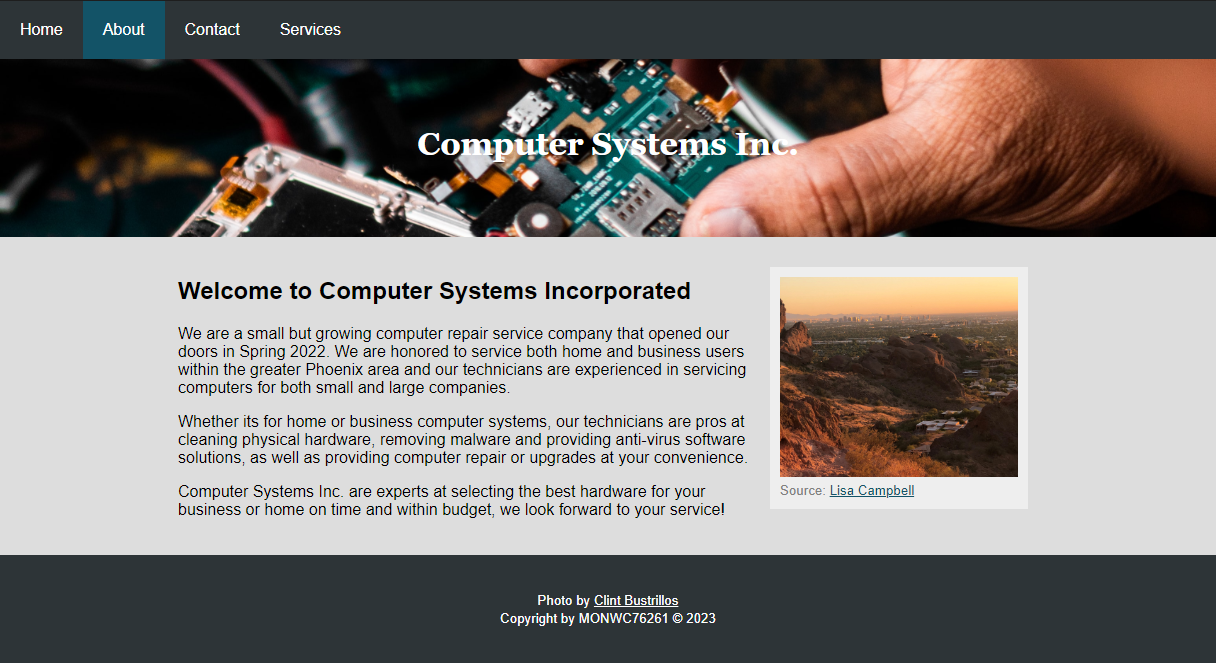
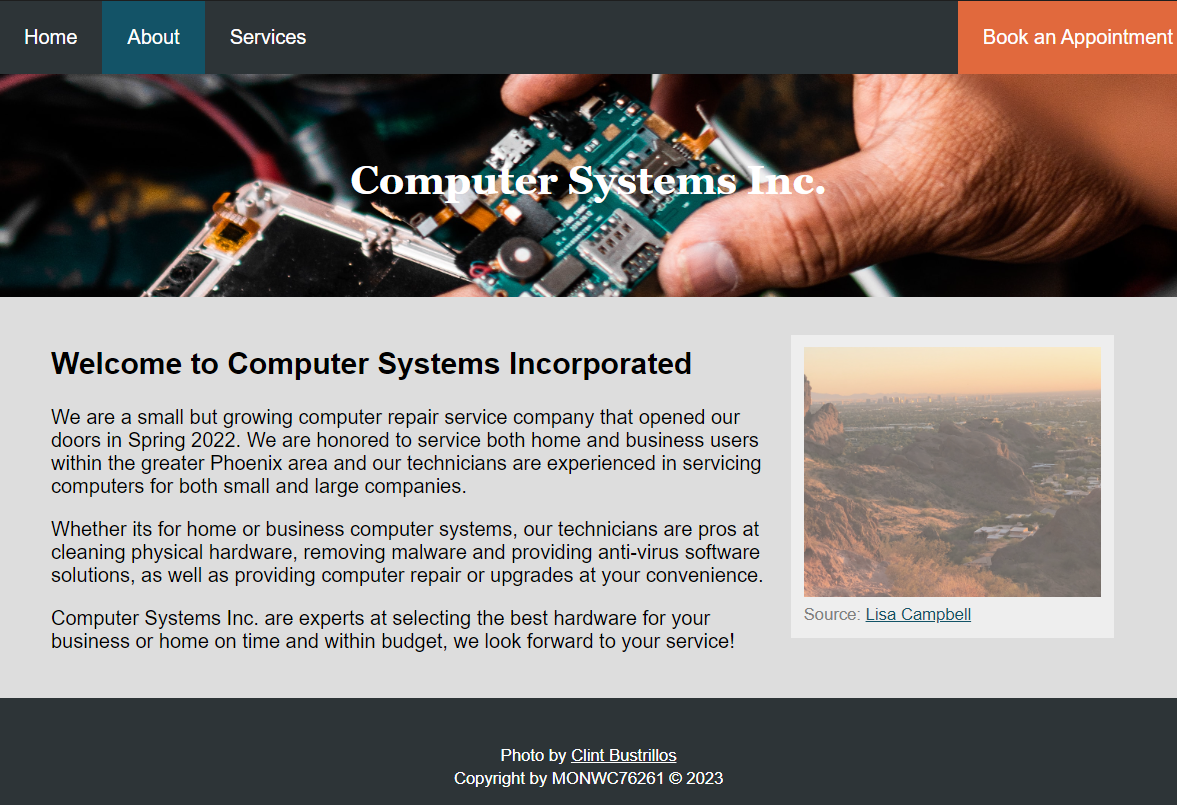
This project is complete

diff --git a/template.html b/template.html
@@ -66,10 +66,9 @@
         <nav>
             <ul>
                 <li><a href="#">Home</a></li>
+                <li><a href="#">About</a></li>
                 <li><a href="#">Contact</a></li>
-                <li><a href="#">Computer Information</a></li>
                 <li><a href="#">Services</a></li>
-                <li><a href="#">Accessibility</a></li>
             </ul>
         </nav>
     </header>

diff --git a/README.md b/README.md
@@ -26,9 +26,9 @@ You will also need to move your internal styles so that they can be edited exter
     - Remove any remaining HTML for the internal stylesheet.
     - Save your changes.
 
-## Create the Home Page
+## Create the About Page
 
-1. Save a copy of the **template.html** file to your Lesson 8 folder as: **about.html**
+1. Save a copy of the template file to your Lesson 8 folder as: **about.html**
 0. In the HEAD section, update the **multi-line comment** to add your section number and the lesson number.
 0. Within the HEAD section, update the **metadata** with the following:
     - Change the title to: **About Us**
@@ -40,6 +40,7 @@ You will also need to move your internal styles so that they can be edited exter
     - This will only be used once in your code, therefore use an appropriate unique identity.
 0. Within the navigation bar, do the following:
     - Apply a class to the "About" link element called: **active**.
+    - Apply a class to the list item containing the "Book an Appointment" link called: **right**
 0. Within the main section, create an **aside** element.
 0. Within the aside element, do the following:
     - Display the image of the city of Phoenix provided to you in the repo.
@@ -58,13 +59,19 @@ You will also need to move your internal styles so that they can be edited exter
 This is an example of what the project should look like at this point in the lesson.
 ![Screenshot of Example Project](screenshots/e4rCPCVpID.png)
 
-## Style the About page
+## Style the About Page
 
 1. If necessary, open the external stylesheet.
+0. Add a multi-lined comment that displays:
+    > <code>Author:<br>Course:<br>Lesson:</code>
+    - Insert your MEID as the author, your course name (CIS133DA) and section number for the course, and add the current lesson number.
 0. In the Header Styles, adjust the URL to the background image so that the image displays. **HINT:** The URL is relative to the location of the stylesheet - not the web page. Try reviewing relative URLs in **Lesson 6, Background Images**.
 0. In the Navigation Bar styles, style the active class you created in this lesson to:
     - Add a background color using your desired color method.
     > **TIP:** This style should make it so that the page the user is actively on is highlighted.
+0. In the Navigation Bar styles, style the right class you created in this lesson to:
+    - Add a background color using your desired color method.
+    - Float the element to the right.
 0. Style the unordered list within the navigation bar to: 
     - Fix the navigation bar to the top of the page.
     - Change the width to 100%.
@@ -88,6 +95,9 @@ This is an example of what the project should look like at this point in the les
     - Fill the full width of the container. **HINT:** Use a width value that will fill the parent element.
     - Define the height to 200px.
     - Adjust the size of the image so that the image will clip to fit to the size of the container.
+     - Change the transparency of the image to 60% opacity.
+0. Style the hover state of the images to:
+    - Change the transparency of the image to 100% opacity.
 0. Style the paragraphs within the aside section to:
     - Remove the margin on all sides.
     - Set the text color to gray using your desired color method.
@@ -99,3 +109,17 @@ This is an example of what the project should look like at this point in the les
  ## Example Project
  Below is a rendering of an example project, your web page may not appear the exact same.
 ![Screenshot of Example Project](screenshots/BomRV7Qdun.png)
+
+## Submit the Project
+Before you submit your project:
+1. Save your files and apply any final commits to your work.
+0. Push (i.e., sync) the repo on your computer with GitHub to ensure all files are uploaded for your instructor to see.
+0. Verify that all files appear on GitHub.
+
+   > **TIP:** You can view any of your repos by going to the GitHub organization for the course - [RSC-computer-technology](https://github.com/rsc-computer-technology). You can bookmark the page for future reference. 
+0. Open the Pull Requests tab within GitHub (or using the GitHub Extension within VS Code).
+0. In the comment field, 
+   - Type in your instructor's username with an `@` before. See the course announcements for their username to use. 
+   - Put a note to your instructor that the assignment is ready to grade.
+0. Click on the `Comment` button to finalize and submit your assignment to GitHub for review.
+0. Lastly, submit the Project to your **Gradebook** using the steps within **Assessing Your Learning** in Lesson 8.
